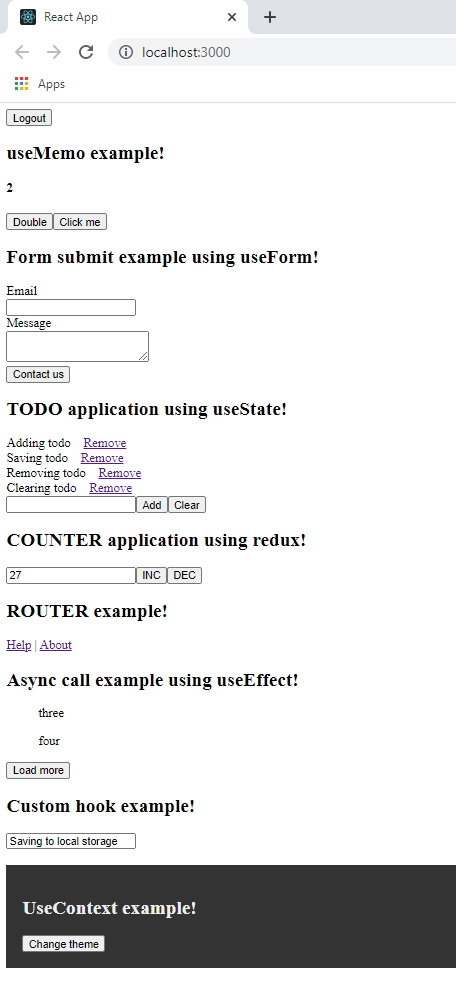
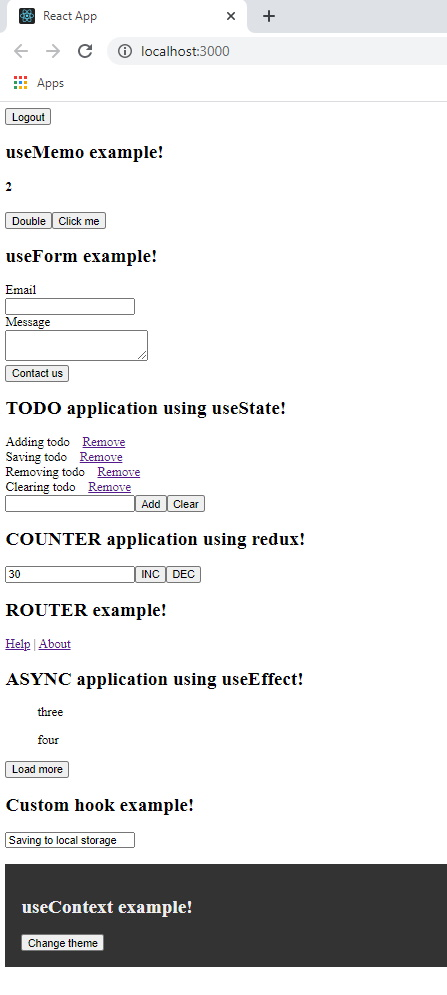
adding more hooks example

diff --git a/src/App.js b/src/App.js
@@ -8,7 +8,7 @@ import CounterExample from "./components/CounterExample";
 import RouterExample from "./components/RouterExample";
 import AsyncExample from "./components/AsyncExample";
 import CustomHookExample from "./components/CustomHookExample";
-import ChangeThemeExample from "./components/ChangeThemeExample";
+import UseContextExample from "./components/UseContextExample";
 import UseFormExample from "./components/UseFormExample";
 import UseMemoExample from "./components/UseMemoExample";
 
@@ -51,7 +51,7 @@ export default function App() {
         <AsyncExample />
         <CustomHookExample />
         <UseThemeProvider>
-          <ChangeThemeExample />
+          <UseContextExample />
         </UseThemeProvider>
       </div>
     );

diff --git a/src/components/UseContextExample.js b/src/components/UseContextExample.js
@@ -2,7 +2,7 @@ import React from "react";
 // importing custom hooks.
 import { useGetTheme, useUpdateTheme } from "../hooks/UseThemeContext";
 
-export default function ChangeThemeExample() {
+export default function UseContextExample() {
   const dark = useGetTheme();
   const changeThemeHandler = useUpdateTheme();
 
@@ -15,7 +15,7 @@ export default function ChangeThemeExample() {
 
   return (
     <div style={themeStyle}>
-      <h2>UseContext example!</h2>
+      <h2>useContext example!</h2>
       <button onClick={changeThemeHandler}>Change theme</button>
     </div>
   );

diff --git a/src/components/AsyncExample.js b/src/components/AsyncExample.js
@@ -73,7 +73,7 @@ export default function AsyncExample() {
 
     return (
       <div>
-        <h2>Async call example using useEffect!</h2>
+        <h2>ASYNC application using useEffect!</h2>
         {myList.map((item) => {
           return <ul key={uuid()}>{item}</ul>;
         })}

diff --git a/src/components/UseFormExample.js b/src/components/UseFormExample.js
@@ -9,7 +9,7 @@ export default function UseFormExample() {
   };
   return (
     <div>
-      <h2>Form submit example using useForm!</h2>
+      <h2>useForm example!</h2>
       <form onSubmit={handleSubmit(onSubmit)}>
         Email <br />
         <input
